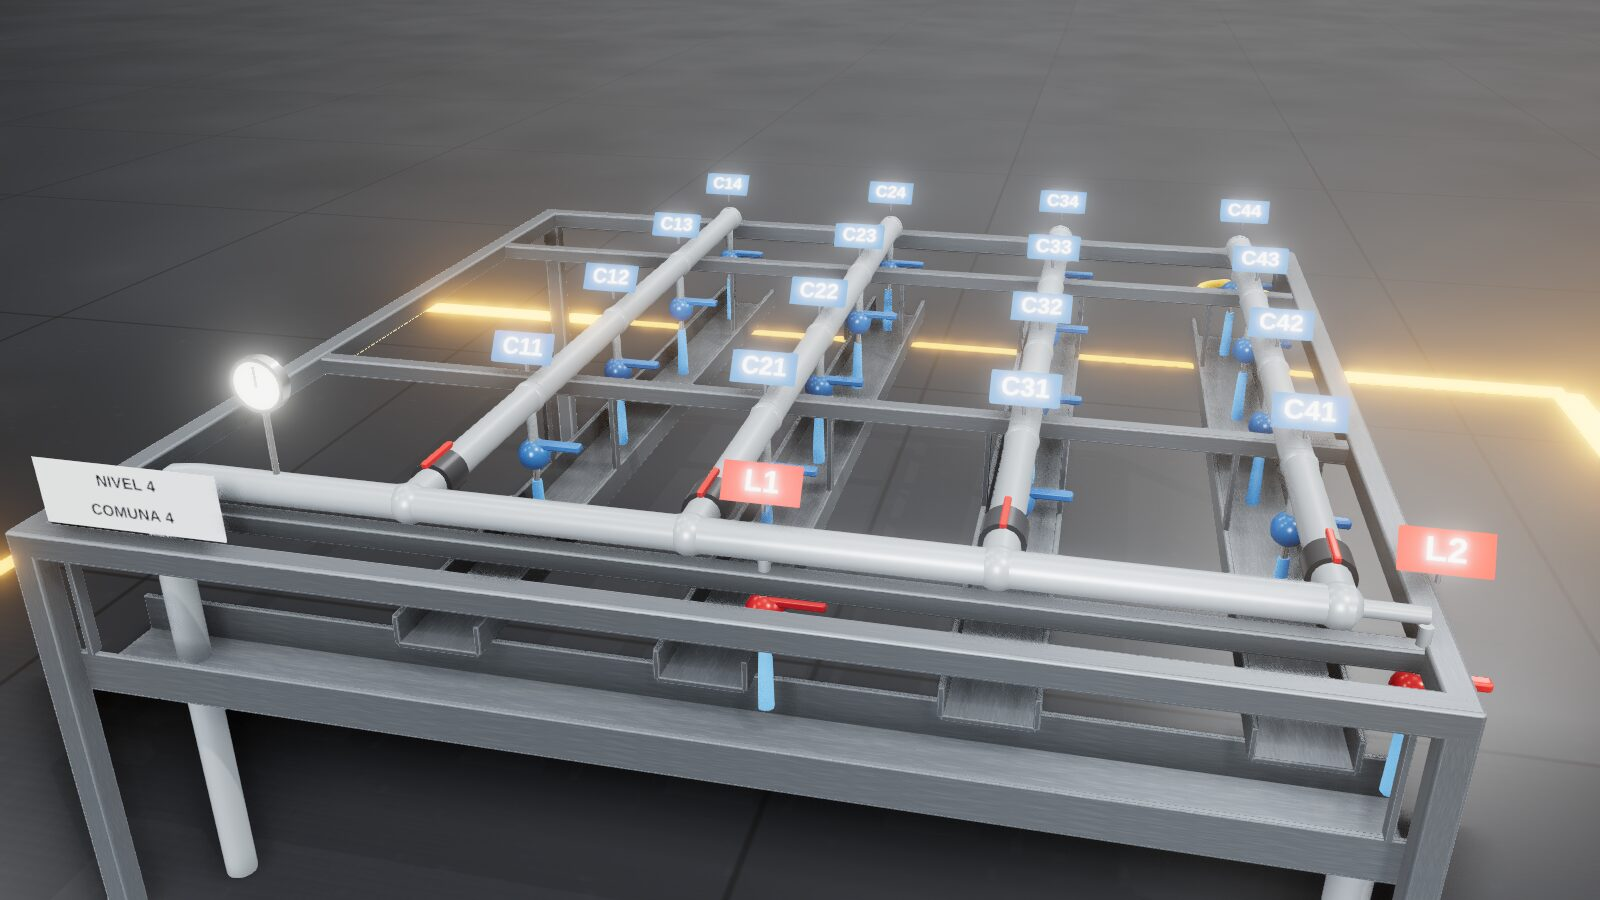
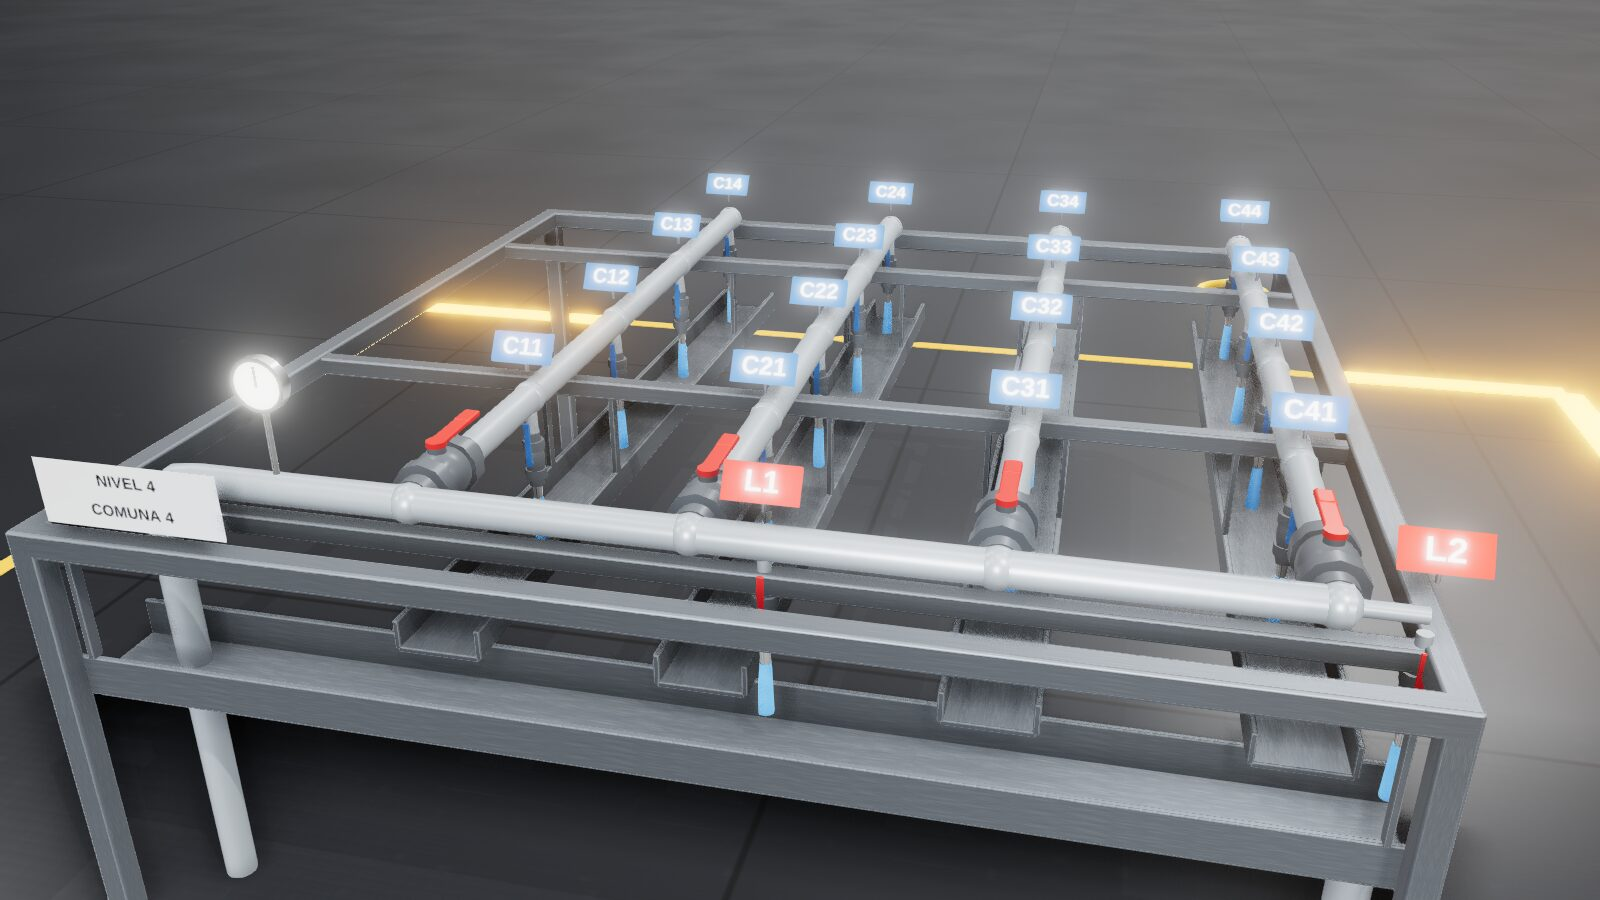
Rejilla: válvulas de bola de PVC de unión doble
Las 18 válvulas de descarga y las 4 de entrada a los ramales se dibujan con
colas, tuercas de unión, cuerpo abombado y manija plana que gira 90° con la
apertura. Registro y capturas actualizados.

Claude-Session: https://claude.ai/code/session_01DGhyCCTRW3XMFERzM5Zm8B

diff --git a/equipment-library/distribution-grid/geometry.ts b/equipment-library/distribution-grid/geometry.ts
@@ -28,7 +28,7 @@ const v3 = (x: number, y: number, z: number) => new THREE.Vector3(x, y, z);
 
 interface ValveHandle {
   id: string;
-  lever: THREE.Mesh;
+  lever: THREE.Object3D;
   jet: THREE.Mesh;
   jetLen: number;
 }
@@ -104,9 +104,52 @@ export default function build(params: Params): EquipmentModel {
   const leakMat = M.paint(red, 0.4);
   const water = M.emissive("#4aa8ff", 1.6);
   // canaletas casi a ras de la salida de las válvulas para que el agua no salpique: 5 cm bajo la boquilla
-  const spoutBottom = gy - 0.2 - r * 0.6;
+  const spoutBottom = gy - 0.21 - r * 0.6;
   const gutterTop = spoutBottom - 0.05;
   const jetBottom = gutterTop - 0.05;
+
+  /**
+   * Válvula de bola de PVC de unión doble, a lo largo de Y y centrada en el origen: colas a cada lado, tuercas de
+   * unión facetadas, cuerpo abombado con el vástago hacia +Z y la manija plana. La manija va en `lever`, que gira
+   * sobre Z: 0 = abierta (paralela al tubo), π/2 = cerrada.
+   */
+  const ballValve = (a: number, len: number, bodyMat: THREE.Material, handleMat: THREE.Material) => {
+    const g = P.group("ball-valve");
+    for (const sy of [-1, 1]) {
+      const tail = P.cylinder(a * 1.22, a * 1.22, len * 0.16, bodyMat, 20);
+      tail.position.y = sy * len * 0.42 - len * 0.08;
+      g.add(tail);
+      const nut = P.cylinder(a * 1.8, a * 1.8, len * 0.17, bodyMat, 10); // tuerca de unión: caras de agarre
+      nut.position.y = sy * len * 0.27 - len * 0.085;
+      g.add(nut);
+    }
+    const prof: THREE.Vector2[] = [];
+    for (let k = 0; k <= 12; k++) {
+      const t = k / 12;
+      const y = (t - 0.5) * len * 0.38;
+      prof.push(new THREE.Vector2(a * (1.45 + 0.22 * Math.sin(Math.PI * t)), y));
+    }
+    const body = new THREE.Mesh(new THREE.LatheGeometry(prof, 28), bodyMat);
+    body.castShadow = true;
+    g.add(body);
+    const boss = P.cylinderZ(a * 0.55, a * 1.0, bodyMat, 16);
+    boss.position.z = a * 1.6;
+    g.add(boss);
+    const lever = P.group("lever");
+    lever.position.z = a * 2.15;
+    const hub = P.cylinderZ(a * 0.62, a * 0.35, handleMat, 16);
+    lever.add(hub);
+    const armLen = len * 0.75;
+    const arm = P.box(a * 1.0, armLen, a * 0.3, handleMat, a * 0.1);
+    arm.position.y = armLen / 2;
+    lever.add(arm);
+    const grip = P.box(a * 1.05, armLen * 0.35, a * 0.4, handleMat, a * 0.15);
+    grip.position.y = armLen * 0.82;
+    lever.add(grip);
+    g.add(lever);
+    return { group: g, lever };
+  };
+  const valveBody = M.paint("#596067", 0.5); // PVC gris oscuro de válvula
 
   /** Placa de 13 × 6,5 cm con el número de la válvula en letra grande. */
   const numberPlate = (text: string, bg: string) => {
@@ -121,24 +164,24 @@ export default function build(params: Params): EquipmentModel {
   const dropValve = (id: string, x: number, z: number, mat: THREE.Material, plateBg: string) => {
     const g = P.group(id);
     g.position.set(x, gy, z);
-    const nipple = P.cylinder(r * 0.35, r * 0.35, 0.09, pvc, 12);
-    nipple.position.y = -0.09 - r * 0.6;
+    const o = r * 0.6;
+    const a = r * 0.42; // tubo de ¾" que baja del ramal
+    const vTop = -0.06 - o;
+    const vLen = 0.12;
+    const nipple = P.cylinder(a, a, -r - vTop, pvc, 12);
+    nipple.position.y = vTop;
     g.add(nipple);
-    const body = new THREE.Mesh(new THREE.SphereGeometry(Math.max(r * 0.75, 0.034), 18, 12), mat);
-    body.position.y = -0.11 - r * 0.6;
-    body.castShadow = true;
-    g.add(body);
-    const spout = P.cylinder(r * 0.28, r * 0.22, 0.06, M.chrome(), 12);
-    spout.position.y = -0.17 - r * 0.6;
+    const valve = ballValve(a, vLen, valveBody, mat);
+    valve.group.position.y = vTop - vLen / 2;
+    g.add(valve.group);
+    const lever = valve.lever;
+    const spout = P.cylinder(a * 0.85, a * 0.7, 0.03, M.chrome(), 12); // boquilla de salida
+    spout.position.y = vTop - vLen - 0.03;
     g.add(spout);
-    const lever = P.box(0.12, 0.016, 0.024, mat, 0.005);
-    lever.geometry.translate(0.045, 0, 0);
-    lever.position.set(0, -0.11 - r * 0.6 + r * 0.75, 0);
-    g.add(lever);
-    const jetTop = gy - 0.17 - r * 0.6;
+    const jetTop = gy + vTop - vLen - 0.03;
     const jetLen = Math.max(0.05, jetTop - jetBottom);
     const jet = P.cylinder(0.012, 0.016, jetLen, water, 10);
-    jet.position.y = -0.17 - r * 0.6 - jetLen;
+    jet.position.y = jetTop - gy - jetLen;
     g.add(jet);
     // placa con el número de la válvula sobre el tubo, inclinada hacia quien mira desde el frente
     const post = P.cylinder(0.004, 0.004, 0.05, galv, 6);
@@ -159,12 +202,10 @@ export default function build(params: Params): EquipmentModel {
     const tee = new THREE.Mesh(new THREE.SphereGeometry(r * 1.2, 16, 10), pvc);
     tee.position.set(x, gy, zHead);
     root.add(tee);
-    const bv = P.cylinderZ(r * 1.3, r * 2.2, M.paint("#3a3d42", 0.45), 20);
-    bv.position.set(x, gy, zHead - s * 0.22);
-    root.add(bv);
-    const bvLever = P.box(0.012, 0.012, 0.1, M.paint("#c62828", 0.45), 0.003);
-    bvLever.position.set(x, gy + r * 1.4, zHead - s * 0.22);
-    root.add(bvLever);
+    const bv = ballValve(r, r * 6.5, valveBody, M.paint("#c62828", 0.45));
+    bv.group.rotation.x = -Math.PI / 2; // a lo largo del ramal, manija arriba
+    bv.group.position.set(x, gy, zHead - s * 0.22);
+    root.add(bv.group);
     const branch = P.cylinderZ(r, zHead - zNode(4), pvc, 20);
     branch.position.set(x, gy, (zHead + zNode(4)) / 2);
     root.add(branch);
@@ -246,7 +287,7 @@ export default function build(params: Params): EquipmentModel {
   function update(frame: AnimationFrame): void {
     for (const v of valves) {
       const open = clamp(ch(frame, `open_${v.id}`), 0, 1);
-      v.lever.rotation.y = -(1 - open) * (Math.PI / 2);
+      v.lever.rotation.z = (1 - open) * (Math.PI / 2);
       const q = Math.max(0, ch(frame, `q_${v.id}`)); // L/min
       const radius = clamp(Math.sqrt(q / 3.3), 0, 3); // ≈ 1 a caudal de diseño de una casa
       v.jet.visible = q > 0.05;

diff --git a/docs/registro/bitacora/bitacora.md b/docs/registro/bitacora/bitacora.md
@@ -10,7 +10,7 @@ Horas en UTC (Colombia = UTC−5). Más reciente arriba. PR = pull request en `A
 
 | Fecha | PR | Resumen | Fase |
 |---|---|---|---|
-| 2026-10-17 | #25 | Acueducto: bombas principales de 13 m³/h para que una sola sostenga la presión (pedido del autor); rejilla con válvulas numeradas y canaletas a ras de la salida | acueducto |
+| 2026-10-17 | #25 | Acueducto: bombas principales de 13 m³/h para que una sola sostenga la presión (pedido del autor); rejilla con válvulas de bola de unión doble numeradas y canaletas a ras de la salida | acueducto |
 | 2026-10-17 | #24 | Acueducto: estación reguladora de presión (`pressure-reducing-station`) y rejilla de un nivel (`distribution-grid`) en la librería, con capturas; termina la entrega 3 | acueducto |
 | 2026-10-17 | #23 | Acueducto: el bombeo principal queda con 2 bombas de trabajo (sin reserva), como pidió el autor; escenario de disparo de bomba rehecho | acueducto |
 | 2026-10-17 | #22 | Acueducto: grupo de bombeo en paralelo (`booster-pump-set`), válvula entre niveles (`regulating-valve`) y tanque de agua de 1.000 L (preset de `vessel`) en la librería, con capturas | acueducto |
@@ -38,13 +38,13 @@ Horas en UTC (Colombia = UTC−5). Más reciente arriba. PR = pull request en `A
 
 ## Entradas
 
-### 2026-10-17 11:00–11:30 · PR #25 · Acueducto: una bomba sola sostiene la presión; rejilla numerada
-- **Fecha/hora (UTC):** 2026-10-17 11:00 a 11:30.
+### 2026-10-17 11:00–12:00 · PR #25 · Acueducto: una bomba sola sostiene la presión; rejilla numerada
+- **Fecha/hora (UTC):** 2026-10-17 11:00 a 12:00.
 - **Fase del plan:** [[plan-del-proyecto]], acueducto a escala, ajustes a la entrega 3.
-- **Solicitado por:** Carlos Andrés Quiceño: comentario en el PR #23 (05:32) «aunque solo una de ellas trabaje puede entregar 75 mca», la opción «Bombas de 13 m³/h» (11:00) y «las canaletas quedan casi a la misma altura de la salida de las válvulas para que el agua no salpique y cada válvula debe ir numerada» (11:03).
-- **Qué se hizo:** preset principal `multistage-2x13m3h-80m` (2 bombas de 13 m³/h a 80 m, motor de 5,5 kW). El grupo arranca la segunda bomba cuando el variador pasa el 98 % aunque la presión todavía se sostenga, para que las dos trabajen de día con margen. Escenarios rehechos: de día 2 bombas al 91,7 %; si una se dispara, la otra sube al 99,7 % y sostiene 13 m³/h a 80 mca sin alarma. Rejilla: cada válvula lleva una placa con su número (C11…C44, L1, L2) y las canaletas pasan 5 cm bajo la salida de las válvulas, colgadas del bastidor.
+- **Solicitado por:** Carlos Andrés Quiceño: comentario en el PR #23 (05:32) «aunque solo una de ellas trabaje puede entregar 75 mca», la opción «Bombas de 13 m³/h» (11:00) «las canaletas quedan casi a la misma altura de la salida de las válvulas para que el agua no salpique y cada válvula debe ir numerada» (11:03) y «Las válvulas de bola de la red no parecen válvulas reales» (11:42).
+- **Qué se hizo:** preset principal `multistage-2x13m3h-80m` (2 bombas de 13 m³/h a 80 m, motor de 5,5 kW). El grupo arranca la segunda bomba cuando el variador pasa el 98 % aunque la presión todavía se sostenga, para que las dos trabajen de día con margen. Escenarios rehechos: de día 2 bombas al 91,7 %; si una se dispara, la otra sube al 99,7 % y sostiene 13 m³/h a 80 mca sin alarma. Rejilla: cada válvula lleva una placa con su número (C11…C44, L1, L2) y las canaletas pasan 5 cm bajo la salida de las válvulas, colgadas del bastidor. Las válvulas de bola se rehicieron como válvulas de PVC de unión doble (colas, tuercas de unión, cuerpo abombado y manija plana que gira 90°), tanto las 18 de descarga como las 4 de entrada a los ramales.
 - **Commits:** ver el PR #25.
-- **Verificación:** escenarios calculados a mano con la curva H = 100·s² − 0,11834·Q², `uv run twin-lib validate`, `uv run pytest`, `uv run ruff check .`, `pnpm -r typecheck` y `pnpm -r test`. Capturas: [[acueducto-grupo-de-bombeo.jpg]], [[acueducto-rejilla-numerada.jpg]] y [[acueducto-rejilla-canaletas.jpg]].
+- **Verificación:** escenarios calculados a mano con la curva H = 100·s² − 0,11834·Q², `uv run twin-lib validate`, `uv run pytest`, `uv run ruff check .`, `pnpm -r typecheck` y `pnpm -r test`. Capturas: [[acueducto-grupo-de-bombeo.jpg]], [[acueducto-rejilla-numerada.jpg]], [[acueducto-rejilla-valvulas-de-bola.jpg]] y [[acueducto-rejilla-canaletas.jpg]].
 - **Decisiones:** [[decisiones]] D26.
 - **Conversación:** [[hilo-acueducto-a-escala]].
 

diff --git a/docs/registro/decisiones/decisiones.md b/docs/registro/decisiones/decisiones.md
@@ -82,4 +82,4 @@ Primera parte de los tipos del acueducto (grupo de bombeo y válvula entre nivel
 Segunda parte de los tipos del acueducto. Decisiones: (1) la rejilla tiene la forma fija del supuesto S1 (4 ramales × 4 casas + 2 fugas) y no parámetros de filas y columnas, para que cada una de las 18 válvulas publique su caudal y su presión como variables declaradas del contrato (`q_c11`…`p_l2`). (2) Cada ramal gana una válvula de bola de 2" a la entrada (Kv 20, casi sin pérdida): sirve para la falla de ramal obstruido, porque en tubería de 2" con estos caudales las pérdidas de los tubos son de milímetros. (3) La estación aislada usa un banco calibrado al punto de diseño (red hasta el punto crítico como Kv 16,09 y consumo como Kv 9,283) para que la galería muestre el control por punto crítico; en la planta la presión crítica llegará por la entrada `critical_pressure_mca`. (4) Cada rama de la estación es corte–PRV–corte conectada directo a los nodos de entrada y salida; se descartó unir las ramas con tramos ficticios de Kv muy alto porque, con caudal casi nulo en la rama cerrada, impedían converger al solucionador. (5) Al volver a la rama automática el PID arranca desde la presión de salida que hay (sin salto). Tolerancias de los escenarios en % (regla D07).
 
 ## D26 · Una bomba principal sola sostiene la presión · 2026-10-17 11:00
-El autor pidió que, aunque solo una bomba trabaje, se entreguen 75 mca (comentario en el PR #23). Llenar el tanque de alimentación solo suma ≈ 1 mca (el tanque mide ≈ 1,2 m), así que la solución es el tamaño de las bombas; el autor eligió «Bombas de 13 m³/h». Decisiones: (1) cada bomba es de 13 m³/h a 80 m (H0 100 m): sola da 13 m³/h a 80 mca con el variador al 99,7 %. (2) La segunda bomba entra cuando el variador pasa el 98 % durante 15 s, sin esperar a que caiga la presión, para que de día trabajen las dos al 92 % y quede margen; antes se exigía además la presión 5 % bajo la consigna. (3) En el disparo de una bomba queda un bache de ≈ 1 s (hasta ≈ 68 mca) mientras la otra acelera con la rampa del variador; no alcanza a disparar la alarma (10 s bajo 72 mca). (4) La rejilla numera cada válvula con el mismo id del contrato (C11…C44, L1, L2) para que lo que se ve coincida con los comandos y las variables.
+El autor pidió que, aunque solo una bomba trabaje, se entreguen 75 mca (comentario en el PR #23). Llenar el tanque de alimentación solo suma ≈ 1 mca (el tanque mide ≈ 1,2 m), así que la solución es el tamaño de las bombas; el autor eligió «Bombas de 13 m³/h». Decisiones: (1) cada bomba es de 13 m³/h a 80 m (H0 100 m): sola da 13 m³/h a 80 mca con el variador al 99,7 %. (2) La segunda bomba entra cuando el variador pasa el 98 % durante 15 s, sin esperar a que caiga la presión, para que de día trabajen las dos al 92 % y quede margen; antes se exigía además la presión 5 % bajo la consigna. (3) En el disparo de una bomba queda un bache de ≈ 1 s (hasta ≈ 68 mca) mientras la otra acelera con la rampa del variador; no alcanza a disparar la alarma (10 s bajo 72 mca). (4) La rejilla numera cada válvula con el mismo id del contrato (C11…C44, L1, L2) para que lo que se ve coincida con los comandos y las variables. (5) Las válvulas de bola de la rejilla se dibujan como válvulas de PVC de unión doble con una función común de la geometría; las tuercas son cilindros de 10 caras en vez de estrías sueltas, para no multiplicar las piezas en los 4 niveles de la planta.

diff --git a/equipment-library/distribution-grid/FICHA.md b/equipment-library/distribution-grid/FICHA.md
@@ -20,6 +20,6 @@
 - Fallas: fuga que revienta (MTBF 2.000 h, MTTR 120 min), ramal obstruido (5.000 h, 90 min).
 - Qué es un rechazo y qué lo causa: no aplica; la alarma es una casa bajo la presión mínima de servicio.
 - Variables, alarmas y KPIs: caudal y presión de cada una de las 18 válvulas, totales del nivel, % de fugas, presión mínima y su válvula; consumo, fugas, agua no contabilizada y presión mínima registrada.
-- Apariencia: cada válvula lleva una placa con su número (C11 a C44 por ramal y posición, L1 y L2 las de fuga, los mismos ids del comando set_opening); las canaletas van 5 cm bajo la salida de las válvulas para que el agua no salpique (pedido del autor, 2026-10-17).
+- Apariencia: cada válvula lleva una placa con su número (C11 a C44 por ramal y posición, L1 y L2 las de fuga, los mismos ids del comando set_opening); las canaletas van 5 cm bajo la salida de las válvulas para que el agua no salpique (pedido del autor, 2026-10-17). Todas las válvulas de bola (las 18 de descarga y las 4 de entrada a los ramales) son de PVC de unión doble: colas, tuercas de unión, cuerpo abombado y manija plana que gira 90° con la apertura (11:42).
 - Qué se anima: manija de cada válvula con su apertura, chorro proporcional al caudal hacia la canaleta y manómetro de entrada.
 - Pendiente o desconocido: Kv y tipo reales de las válvulas del modelo físico.

diff --git a/equipment-library/distribution-grid/README.md b/equipment-library/distribution-grid/README.md
@@ -1,6 +1,6 @@
 # distribution-grid
 
-Un nivel de la red del acueducto a escala (una comuna): cabezal de 2" con cuatro ramales, cada uno con su válvula de bola y cuatro válvulas de consumo (las casas), y dos válvulas de fuga (rojas) en el cabezal. Cada válvula lleva una placa con su número (C11…C44, L1, L2) y descarga a una canaleta que pasa 5 cm bajo su salida, para que no salpique; las canaletas bajan por una bajante. Visual V2 · comportamiento B2. Ver `FICHA.md` y el diseño en [docs/water-network-plant.md](../../docs/water-network-plant.md).
+Un nivel de la red del acueducto a escala (una comuna): cabezal de 2" con cuatro ramales, cada uno con su válvula de bola y cuatro válvulas de consumo (las casas), y dos válvulas de fuga (rojas) en el cabezal. Las válvulas son de bola de PVC de unión doble, con manija que gira con la apertura. Cada válvula lleva una placa con su número (C11…C44, L1, L2) y descarga a una canaleta que pasa 5 cm bajo su salida, para que no salpique; las canaletas bajan por una bajante. Visual V2 · comportamiento B2. Ver `FICHA.md` y el diseño en [docs/water-network-plant.md](../../docs/water-network-plant.md).
 
 ## Qué simula
 - **Reparto:** tubos (Darcy-Weisbach) y descargas a la atmósfera resueltos con `HydraulicNetwork`; la presión de cada casa depende de lo que consumen las demás.

diff --git a/docs/registro/historico/proyecto/hilo-acueducto-a-escala.md b/docs/registro/historico/proyecto/hilo-acueducto-a-escala.md
@@ -128,3 +128,11 @@ Trabajo del hilo, resumido:
 - Al dispararse una bomba la otra sostiene 80 mca; queda un bache de ≈ 1 s mientras acelera, sin alarma.
 - Subió las canaletas de la rejilla a 5 cm bajo la salida de las válvulas, con colgadores del bastidor, y puso una placa numerada en cada válvula. Revisó las capturas de cerca.
 - Abrió el PR #25 y actualizó la bitácora, la decisión D26, el diseño y este histórico.
+
+### 👤 Carlos Andrés Quiceño · 11:42 UTC
+
+Las válvulas de bola de la red no parecen válvulas reales
+
+### 🤖 Claude (hilo) · 11:43–12:00 UTC
+
+Rehízo las válvulas de bola de la rejilla como válvulas de PVC de unión doble (colas, tuercas de unión, cuerpo abombado y manija plana que gira 90° con la apertura), en las 18 de descarga y en las 4 de entrada a los ramales; revisó capturas de cerca con válvulas abiertas, a medio abrir y cerradas, y lo subió al mismo PR #25.
